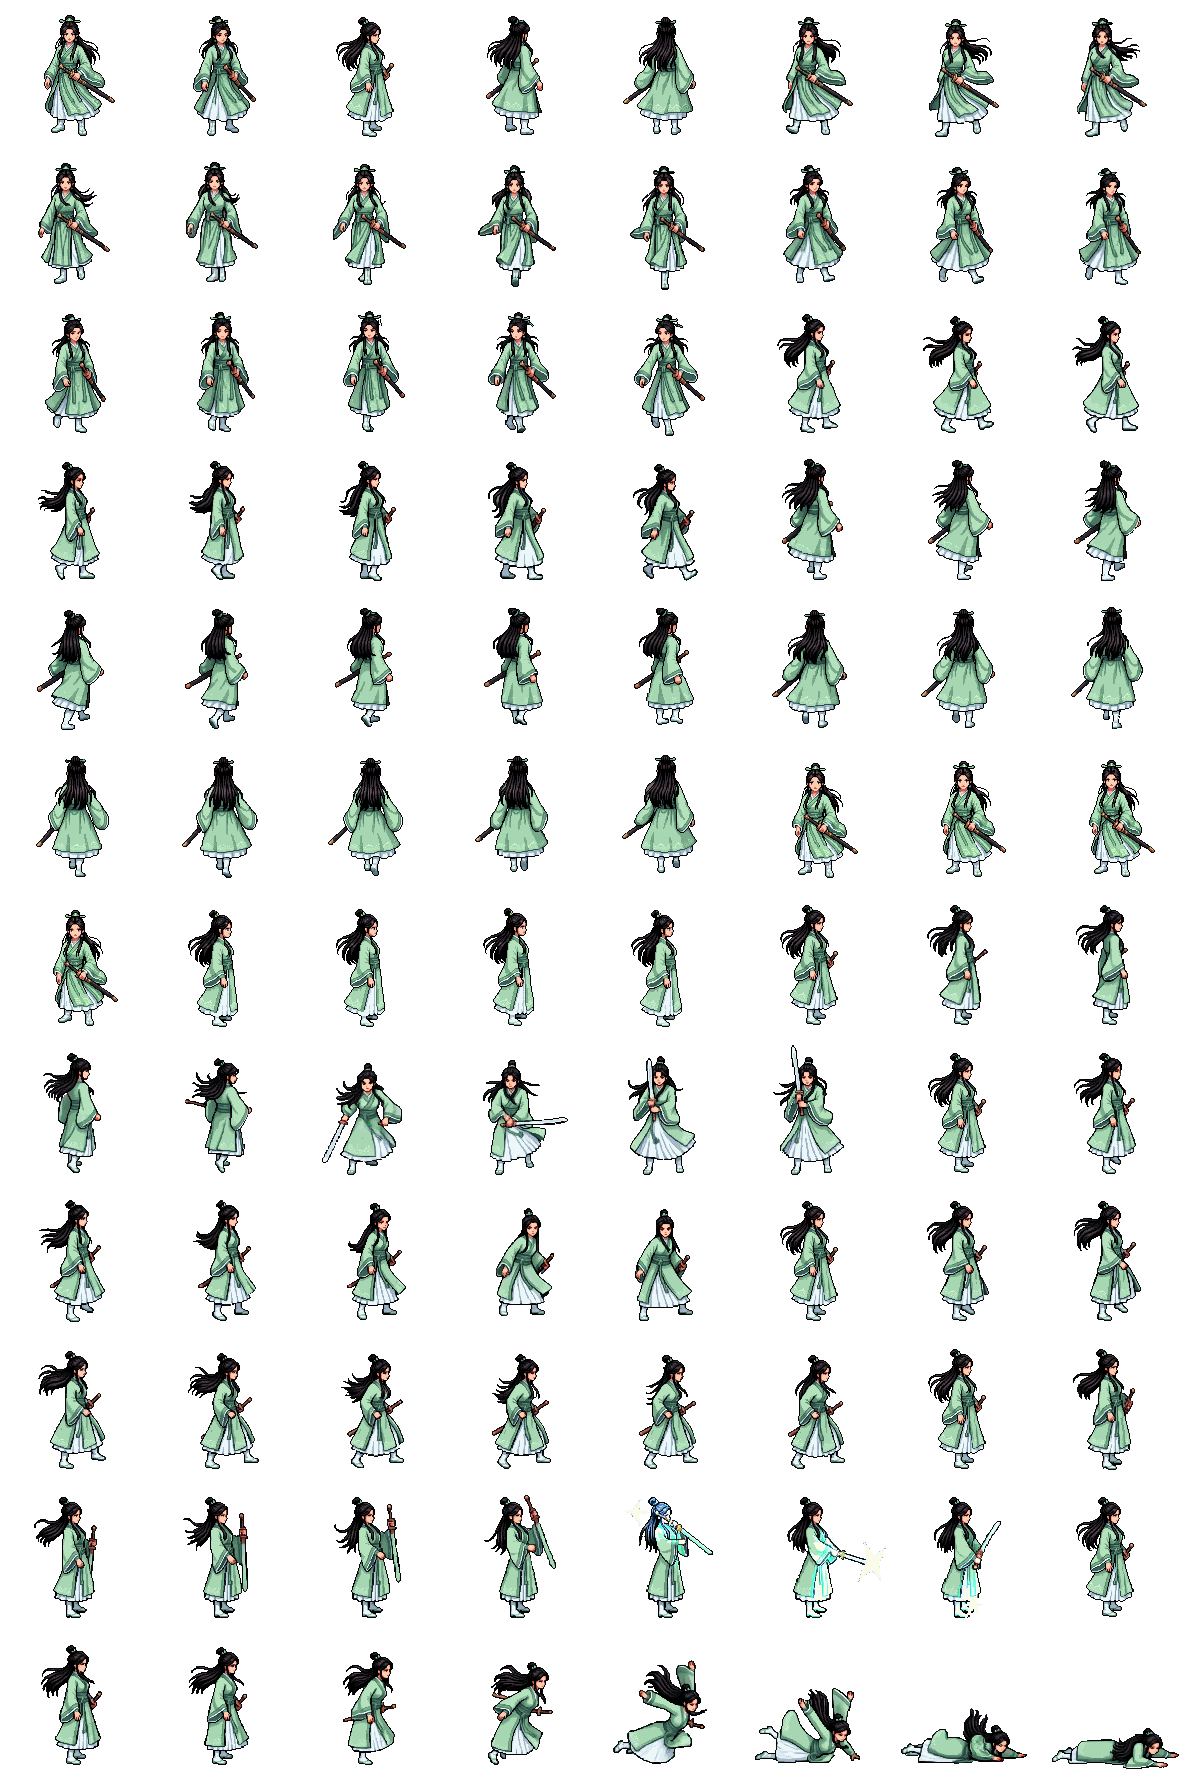
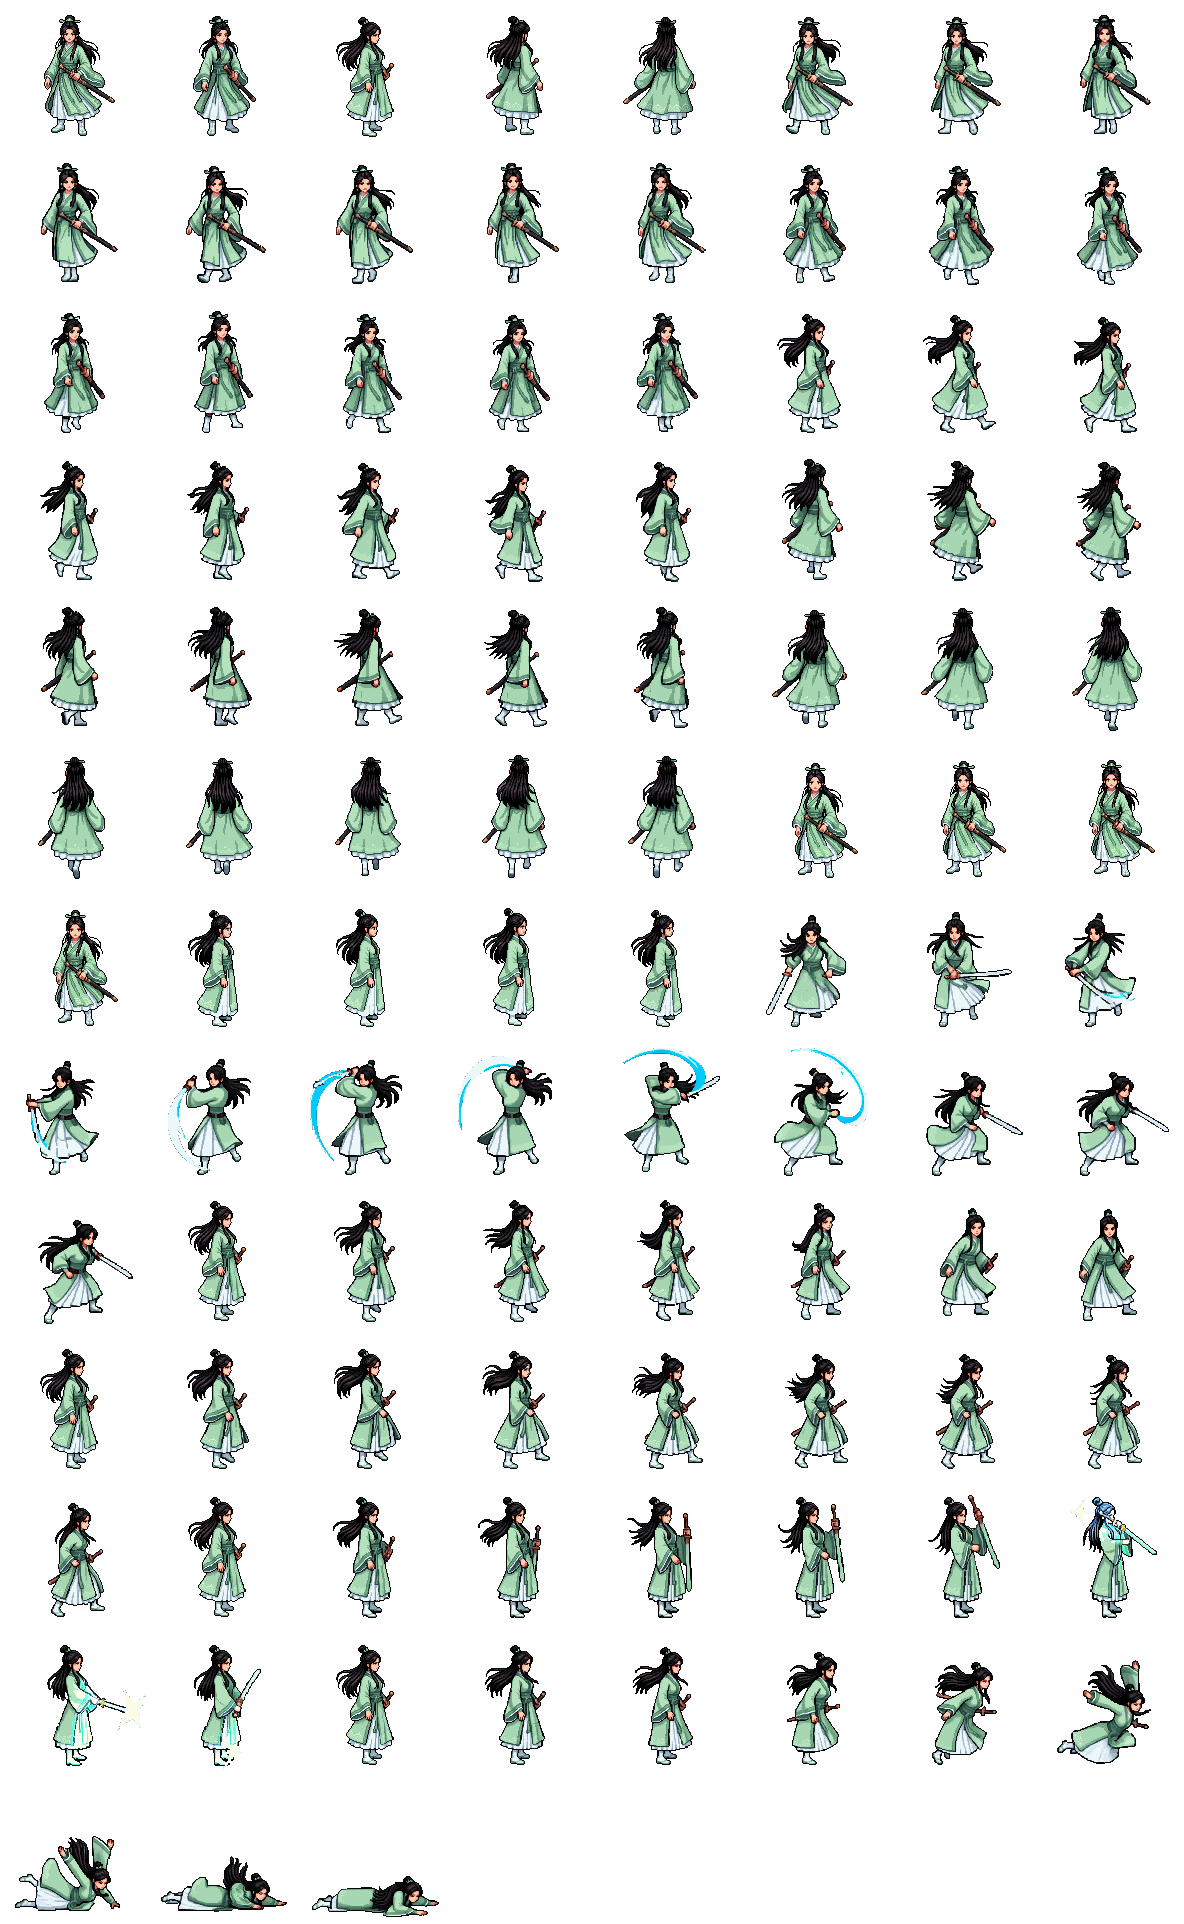
Heroes: seamless walk loops and a real sword slash
The PixelLab walks drifted from their first pose, so the last frame
jumped back to the first. Each direction is re-animated (v3) from one
mid-stride frame back to the same frame; the closing frame repeats the
first and is dropped, so the walk loops seamlessly.

The attack spent most of its frames standing and drawing the sword.
It now plays the draw, then a v3 slash started from the drawn-sword
frame: a lunge and a wide arc with a blade streak.

- build-pixellab-sheets.ts: a clip take may name a frame range
  ("walk_loop#0-7") and a clip may join takes (["attack#5-6", "slash#1-10"]).
- characters.spec: read motion and pose in one frame, and walk out and
  back on each axis so the hero never ends up blocked by the well.

Claude-Session: https://claude.ai/code/session_015NF6nczcB9pq1DHZKmDsF7

diff --git a/scripts/build-pixellab-sheets.ts b/scripts/build-pixellab-sheets.ts
@@ -15,7 +15,10 @@
  * to the east rotation, so a character can be packed before every clip exists.
  * A character's `clips` in scripts/pixellab-characters.json picks another take
  * for a clip (`"walk": "try_walk_v3"`), so a re-roll can replace a clip
- * without renaming anything on PixelLab.
+ * without renaming anything on PixelLab. A take may name a frame range
+ * (`"walk_loop#0-7"` drops a loop's closing frame, which repeats its first)
+ * and a list of takes plays one after another (`["attack#5-6", "slash"]`:
+ * the draw of one take, then the strike of another).
  *
  * PixelLab grows the canvas of a custom animation evenly around the character
  * (a 128 px character attacks on 172 px), so every frame is aligned by its
@@ -46,7 +49,7 @@ const BASE = 128;
 const RIGGED = { figure: 108, cell: 128, feet: 120 };
 const DIR_NAME: Record<Walk8Direction, string> = { S: "south", SE: "south-east", E: "east", NE: "north-east", N: "north" };
 /** Per character: which downloaded take each clip uses (default: the clip's own name). */
-const MANIFEST = JSON.parse(readFileSync("scripts/pixellab-characters.json", "utf8")) as Record<string, { clips?: Record<string, string> }>;
+const MANIFEST = JSON.parse(readFileSync("scripts/pixellab-characters.json", "utf8")) as Record<string, { clips?: Record<string, string | string[]> }>;
 
 const args = process.argv.slice(2);
 const fromAt = args.indexOf("--from");
@@ -79,8 +82,19 @@ async function pack(id: string): Promise<PlSheet> {
   const paths: string[] = [];
   const add = (files: string[]) => { const start = paths.length; paths.push(...files); return files.map((_, i) => start + i); };
   const rotation = (dir: string) => join(root, "rotations", `${dir}.png`);
-  const take = (name: string) => MANIFEST[id]?.clips?.[name] ?? name;
-  const clipOr = (name: string, dir: string) => { const files = framesOf(join(root, take(name), dir)); return files.length ? files : [rotation(dir)]; };
+  const takes = (name: string) => [MANIFEST[id]?.clips?.[name] ?? name].flat();
+  /** One take's frames: `name` or `name#from-to` (inclusive frame numbers). */
+  const takeFrames = (spec: string, dir: string) => {
+    const [name, range] = spec.split("#");
+    const files = framesOf(join(root, name, dir));
+    if (!range) return files;
+    const [from, to] = range.split("-").map(Number);
+    return files.slice(from, to + 1);
+  };
+  const clipOr = (name: string, dir: string) => {
+    const files = takes(name).flatMap((spec) => takeFrames(spec, dir));
+    return files.length ? files : [rotation(dir)];
+  };
 
   const stand = Object.fromEntries(WALK8_DIRECTIONS.map((d) => [d, add([rotation(DIR_NAME[d])])[0]])) as Record<Walk8Direction, number>;
   const walk = Object.fromEntries(WALK8_DIRECTIONS.map((d) => [d, add(clipOr("walk", DIR_NAME[d]))])) as Record<Walk8Direction, number[]>;

diff --git a/lib/characters/pl-sheets-data.ts b/lib/characters/pl-sheets-data.ts
@@ -4,10 +4,10 @@ import type { PlSheet } from "./pl-sheets";
 export const PL_SHEET_DATA: Record<string, PlSheet> = {
   "f1": {
     "id": "f1",
-    "url": "/art/characters/pl/f1.png?v=ad8157aa",
+    "url": "/art/characters/pl/f1.png?v=4b48b794",
     "cell": 148,
     "columns": 8,
-    "rows": 12,
+    "rows": 13,
     "feetY": 136,
     "figure": 121,
     "clips": {
@@ -32,27 +32,27 @@ export const PL_SHEET_DATA: Record<string, PlSheet> = {
         "repeat": -1
       },
       "attack": {
-        "frames": [53, 54, 55, 56, 57, 58, 59, 60, 61],
+        "frames": [53, 54, 55, 56, 57, 58, 59, 60, 61, 62, 63, 64],
         "fps": 12,
         "repeat": 0
       },
       "hurt": {
-        "frames": [62, 63, 64, 65, 66, 67, 68],
+        "frames": [65, 66, 67, 68, 69, 70, 71],
         "fps": 10,
         "repeat": 0
       },
       "guard": {
-        "frames": [69, 70, 71, 72, 73, 74, 75, 76, 77],
+        "frames": [72, 73, 74, 75, 76, 77, 78, 79, 80],
         "fps": 8,
         "repeat": -1
       },
       "victory": {
-        "frames": [78, 79, 80, 81, 82, 83, 84, 85, 86],
+        "frames": [81, 82, 83, 84, 85, 86, 87, 88, 89],
         "fps": 8,
         "repeat": 0
       },
       "defeat": {
-        "frames": [87, 88, 89, 90, 91, 92, 93, 94, 95],
+        "frames": [90, 91, 92, 93, 94, 95, 96, 97, 98],
         "fps": 8,
         "repeat": 0
       }
@@ -82,10 +82,10 @@ export const PL_SHEET_DATA: Record<string, PlSheet> = {
   },
   "m1": {
     "id": "m1",
-    "url": "/art/characters/pl/m1.png?v=276aec0a",
+    "url": "/art/characters/pl/m1.png?v=ff841d3a",
     "cell": 146,
     "columns": 8,
-    "rows": 12,
+    "rows": 13,
     "feetY": 136,
     "figure": 120,
     "clips": {
@@ -110,27 +110,27 @@ export const PL_SHEET_DATA: Record<string, PlSheet> = {
         "repeat": -1
       },
       "attack": {
-        "frames": [53, 54, 55, 56, 57, 58, 59, 60, 61],
+        "frames": [53, 54, 55, 56, 57, 58, 59, 60, 61, 62, 63, 64],
         "fps": 12,
         "repeat": 0
       },
       "hurt": {
-        "frames": [62, 63, 64, 65, 66, 67, 68],
+        "frames": [65, 66, 67, 68, 69, 70, 71],
         "fps": 10,
         "repeat": 0
       },
       "guard": {
-        "frames": [69, 70, 71, 72, 73, 74, 75, 76, 77],
+        "frames": [72, 73, 74, 75, 76, 77, 78, 79, 80],
         "fps": 8,
         "repeat": -1
       },
       "victory": {
-        "frames": [78, 79, 80, 81, 82, 83, 84, 85, 86],
+        "frames": [81, 82, 83, 84, 85, 86, 87, 88, 89],
         "fps": 8,
         "repeat": 0
       },
       "defeat": {
-        "frames": [87, 88, 89, 90, 91, 92, 93, 94, 95],
+        "frames": [90, 91, 92, 93, 94, 95, 96, 97, 98],
         "fps": 8,
         "repeat": 0
       }

diff --git a/tests/browser/characters.spec.ts b/tests/browser/characters.spec.ts
@@ -24,16 +24,21 @@ test("both heroes walk on their eight-way frames and face where they go", async 
     await expect(world).toHaveAttribute("data-player-motion", "idle");
     await expect(world).toHaveAttribute("data-player-pose", /^stand:/);
     await world.focus();
+    // Out and back on each axis, so the hero stays in the open yard (and never ends up against the well).
     for (const step of [
       { key: "d", dir: "E", row: "E" },
+      { key: "a", dir: "W", row: "E" },
       { key: "w", dir: "N", row: "N" },
       { key: "s", dir: "S", row: "S" },
-      { key: "a", dir: "W", row: "E" },
     ]) {
       await page.keyboard.down(step.key);
       await expect(world).toHaveAttribute("data-player-dir", step.dir);
-      await expect(world).toHaveAttribute("data-player-motion", "walk");
-      await expect(world).toHaveAttribute("data-player-pose", `walk:${step.row}`);
+      // Motion and pose are written in the same tick: read them together (a short walk
+      // can end against a wall between two separate reads).
+      await page.waitForFunction((row) => {
+        const host = document.querySelector('[data-testid="world-canvas"]');
+        return host?.getAttribute("data-player-motion") === "walk" && host.getAttribute("data-player-pose") === `walk:${row}`;
+      }, step.row, { polling: "raf", timeout: 15_000 });
       const first = await world.getAttribute("data-player-frame");
       await expect.poll(() => world.getAttribute("data-player-frame")).not.toBe(first);
       await page.keyboard.up(step.key);

diff --git a/docs/assets.md b/docs/assets.md
@@ -168,15 +168,17 @@ People and beasts are being redrawn and animated by PixelLab, replacing the pain
 
 | Name | Directions | How | Cost |
 | --- | --- | --- | --- |
-| `walk` | south, south-east, east, north-east, north (west-facing ones are mirrored) | v3, 8 frames, `keep_first_frame: false`: "walking forward at a calm steady pace, legs stepping and arms swinging slightly; the sheathed sword stays at his left hip in every frame, exactly as in the first frame" (beasts: template `walk-8-frames`) | 4 per direction |
+| `walk` | south, south-east, east, north-east, north (west-facing ones are mirrored) | v3 **loop**: `custom_start_frame_url` and `end_frame_url` both the same mid-stride frame, 8 frames: "one complete walking cycle in place… ends exactly back in the starting pose so it loops seamlessly; the sheathed sword stays at his hip in every frame". The closing frame repeats the first, so the clip uses `walk_loop#0-7` (beasts: template `walk-8-frames`) | 4 per direction |
 | `idle` | south (the map) and east (battle) | template `breathing-idle` (beasts `idle`) | 1 per direction |
-| `attack` | east | v3, 8 frames: "draws the jian sword and slashes forward in one swift wuxia strike, then returns to stance" | 4 |
+| `attack` | east | the draw (frames 5–6 of a first v3 take, "draws the jian sword and slashes forward…") then a v3 slash started from the drawn-sword frame (`custom_start_frame_url`), 10 frames: "lunges forward with a big step and swings the drawn sword in a wide, powerful diagonal slash from high overhead down to low in front, full body twisting into the blow with a bright white blade streak, then recovers into a ready stance holding the sword forward" — `["attack#5-6", "slash#1-10"]` | 4 + 5 |
 | `hurt` | east | v3, 6 frames: "is hit by a blow, flinches and recoils one step backward, then recovers his footing; the sword stays sheathed at his hip, no punching, no effects" | 3 |
 | `stance` | east | v3, 8 frames: "stands in a ready wuxia guard stance, knees bent, one hand on the sword hilt at his hip… no punching" — the guard pose | 4 |
 | `victory` | east | v3, 8 frames: "raises the sword high overhead in triumph" | 4 |
 | `defeat` | east | v3, 8 frames: "is struck hard, staggers backward, drops to his knees and collapses… lying still on the ground; the sword stays sheathed at his hip, no jumping, no kicking" | 4 |
 
-A person costs about 46 generations (3 to create, about 43 to animate); a beast about 16. Twenty jobs can run at once per account.
+A person costs about 50 generations (3 to create, about 47 to animate); a beast about 16. Twenty jobs can run at once per account.
+
+**Loops and strikes.** A plain v3 clip drifts away from its first pose, so a walk built from it jumps when it wraps (the last-to-first difference was about twice a normal step). Giving the same frame as start and end makes v3 come back to it: the closing frame matched the first (pixel difference under 1 against 20–40 between steps), so dropping it gives a seamless loop. A one-shot "draws and slashes" spent most of its frames standing and drawing; starting a second clip from the drawn-sword frame gives the whole clip to the swing. Prompts asking for glow can wash the body out ("her robe keeps its colours" did not help; the diagonal-slash wording did).
 
 **Templates redraw the figure; v3 keeps it.** A template clip (`walking-8-frames`, `taking-punch`, `falling-back-death`, `fight-stance-idle-8-frames`) is redrawn frame by frame from a bare skeleton: the sword came and went between walk frames, the hit and the fall started from a boxer's fists and the fall kicked into the air. Template `skeleton-v3` (the skeleton posed onto the character's own pixels) is steadier but still let the sword drift. v3 custom clips that say what must stay ("the sword stays sheathed at his hip in every frame") keep the outfit and weapon whole, so every person clip except the breathing idle is v3. A take is picked per clip in `scripts/pixellab-characters.json` (`clips`), so a re-roll under a new animation name replaces a clip without renaming anything.
 

diff --git a/docs/changelog.md b/docs/changelog.md
@@ -8,6 +8,7 @@ Pull requests are on [github.com/tao-Isaman/wuxia-world](https://github.com/tao-
 
 ### PixelLab characters: the heroes and the wolf redrawn
 
+- **Walk loops and real slashes:** the heroes' walks now loop seamlessly (each direction re-animated from one frame back to the same frame), and their attack draws the sword and swings it in a wide arc with a blade streak instead of only drawing it.
 - The heroes **m1** and **f1** are redrawn and animated by PixelLab (style B: 128 px, high detail): vivid colours at native pixels, an 8-frame walk in eight directions, breathing idles, a sword slash, hit, guard stance, victory and a fall. The walk, hit, stance and fall are custom (v3) clips that keep the sword in place; the first template takes made the sword flicker while walking and the fall kick into the air. **Wolves** (and wild dogs) are a PixelLab beast (style C) with idle, bite and hurt clips, on the map and in battle. The styles were chosen from three candidates per kind.
 - Engine: a character atlas now carries its own clips, eight-way walk cells and `native` flag (`lib/characters/sheet.ts`, `pl-sheets.ts`); the map, battle, cutscene and preview renderers read them, so rigged and PixelLab sheets play side by side. Beasts map to sheets through `BEAST_SHEETS`.
 - Pipeline: `scripts/pixellab-characters.py` (download), `scripts/build-pixellab-sheets.ts` (people), `scripts/build-anim-sheets.ts` (beasts). Guide: [assets.md](assets.md#pixellab-characters).
